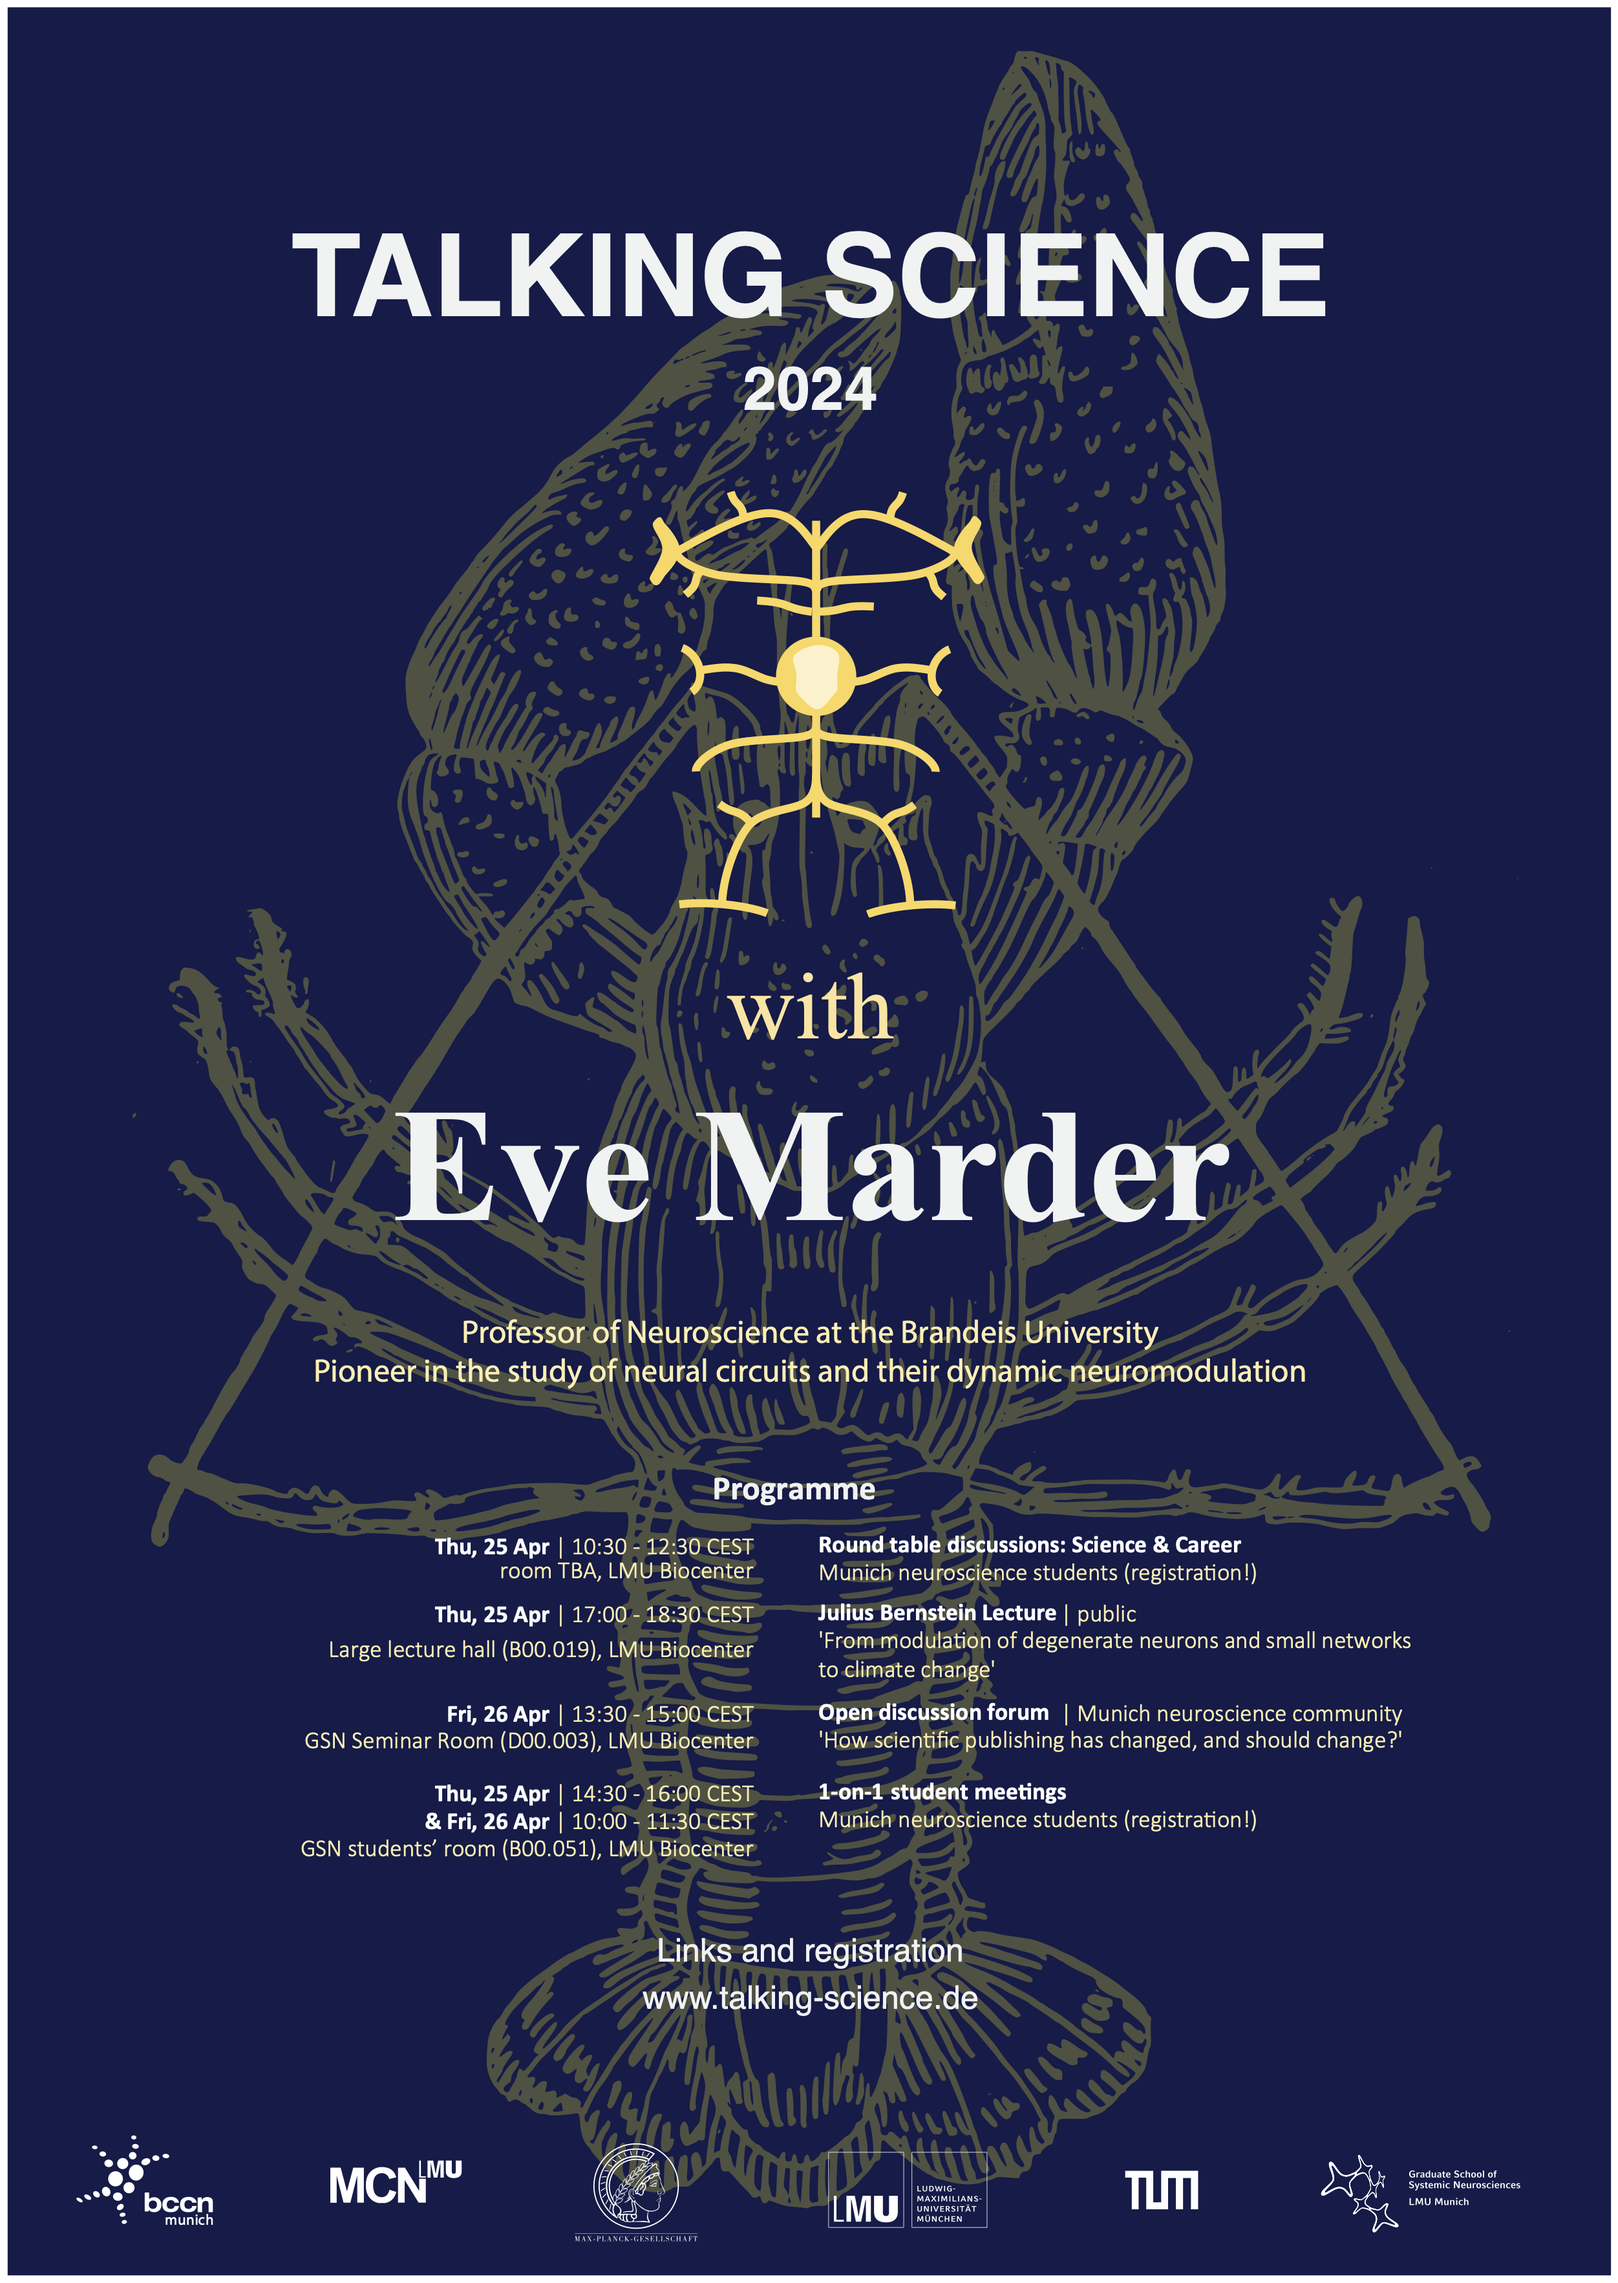
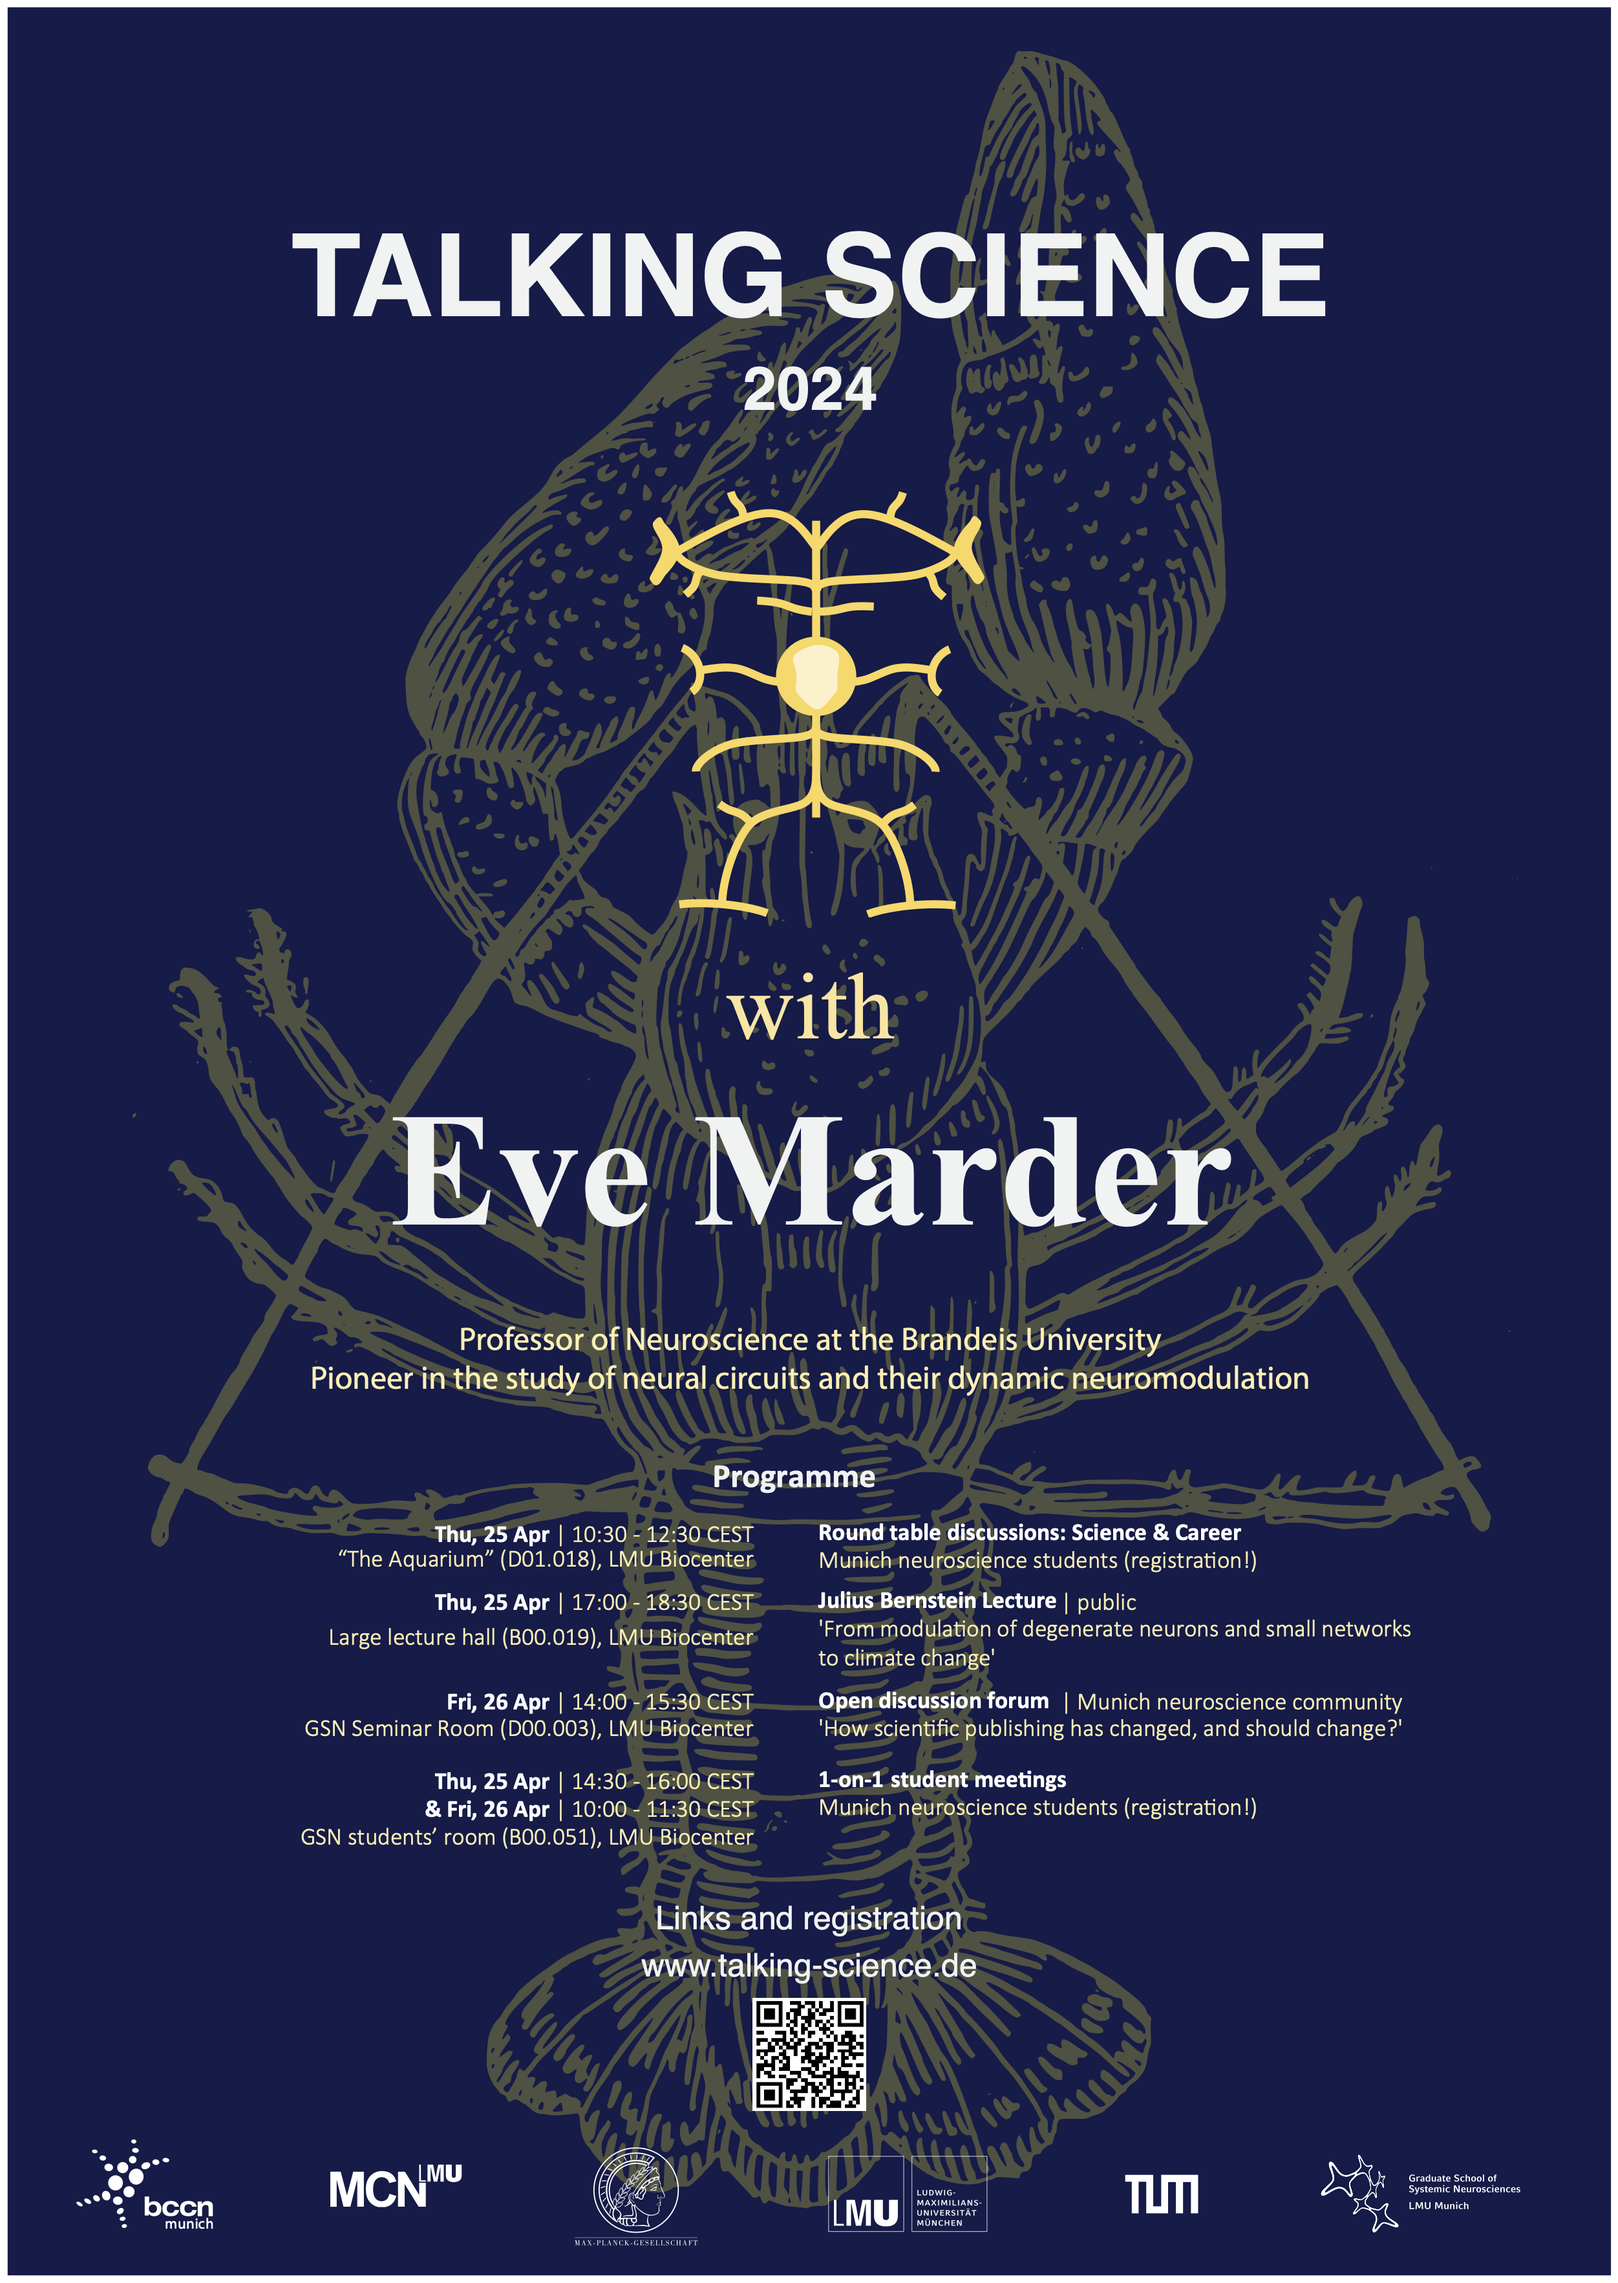
update rooms

diff --git a/index.html b/index.html
@@ -86,7 +86,7 @@
 
         <br>In this second round table discussion we will gain insights from Prof. Marder about her choices throughout her scientific career. Students can also take advantage of this forum to discuss the direciton of their own research and future plans.Please sign up <a href="https://forms.gle/JeCvP11vF9UA2PTD6" target="_blank">here</a>! <br><br></dd>
         
-		<dd>Thursday, 25.04.2024 between 14:30 and 16.00 - LMU Biocenter Martinsried, exact location TBA </dd>
+		<dd>Thursday, 25.04.2024 between 14:30 and 16.00 - LMU Biocenter Martinsried, GSN student room (B00.051) </dd>
         <dd><b>1-on-1 student meetings</b>
 		<br>This is an opportunity for a personal meeting with Prof. Marder, in which you could discuss issues that directly relate to your own research. Each student will get a time slot of 20 mins. Please <a href="https://forms.gle/JeCvP11vF9UA2PTD6" target="_blank">sign up</a>, as the number of places is limited.<br><br></dd>
 
@@ -95,12 +95,12 @@
 
         <br>This lecture is open to the general scientific community.<br><br></dd>
     
-    <dd>Thursday, 25.04.2024 at 19.00 - location: tba</dd>
+    <dd>Thursday, 25.04.2024 at 19.00 - Martinsried</dd>
         <dd><b>Social Event: Dinner</b>
 		<br>We have very limited places available to invite students to a dinner with Prof. Marder. Please sign up <a href="https://forms.gle/JeCvP11vF9UA2PTD6" target="_blank">here</a>!<br><br></dd>
 
 		
-    <dd>Friday, 26.04.2024 10:00 - 11.30 - LMU Biocenter Martinsried, exact location TBA </dd>
+    <dd>Friday, 26.04.2024 10:00 - 11.30 - LMU Biocenter Martinsried, GSN student room (B00.051) </dd>
         <dd><b>1-on-1 student meetings</b>
           <br>This is an opportunity for a personal meeting with Prof. Marder, in which you could discuss issues that directly relate to your own research. Each student will get a time slot of 20 mins. Please <a href="https://forms.gle/JeCvP11vF9UA2PTD6" target="_blank">sign up</a>, as the number of places is limited.<br><br></dd>
 			
@@ -111,7 +111,7 @@
       <br>We have very limited places available to invite students to a lunch with Prof. Marder. Please sign up <a href="https://forms.gle/JeCvP11vF9UA2PTD6" target="_blank">here</a>!<br><br></dd>
 
    
-    <dd>Friday, 26.04.2024 at 14:00 - GSN Seminar Room, D00.0003, LMU Biocenter in Martinsried</dd>
+    <dd>Friday, 26.04.2024 at 14:00 - GSN Seminar Room, D00.003, LMU Biocenter in Martinsried</dd>
     <dd><b>Discussion forum: <i>How scientific publishing has changed, and should change?</i> </b>
 
     <br>This discussion is open to the general scientific community.<br><br></dd>
